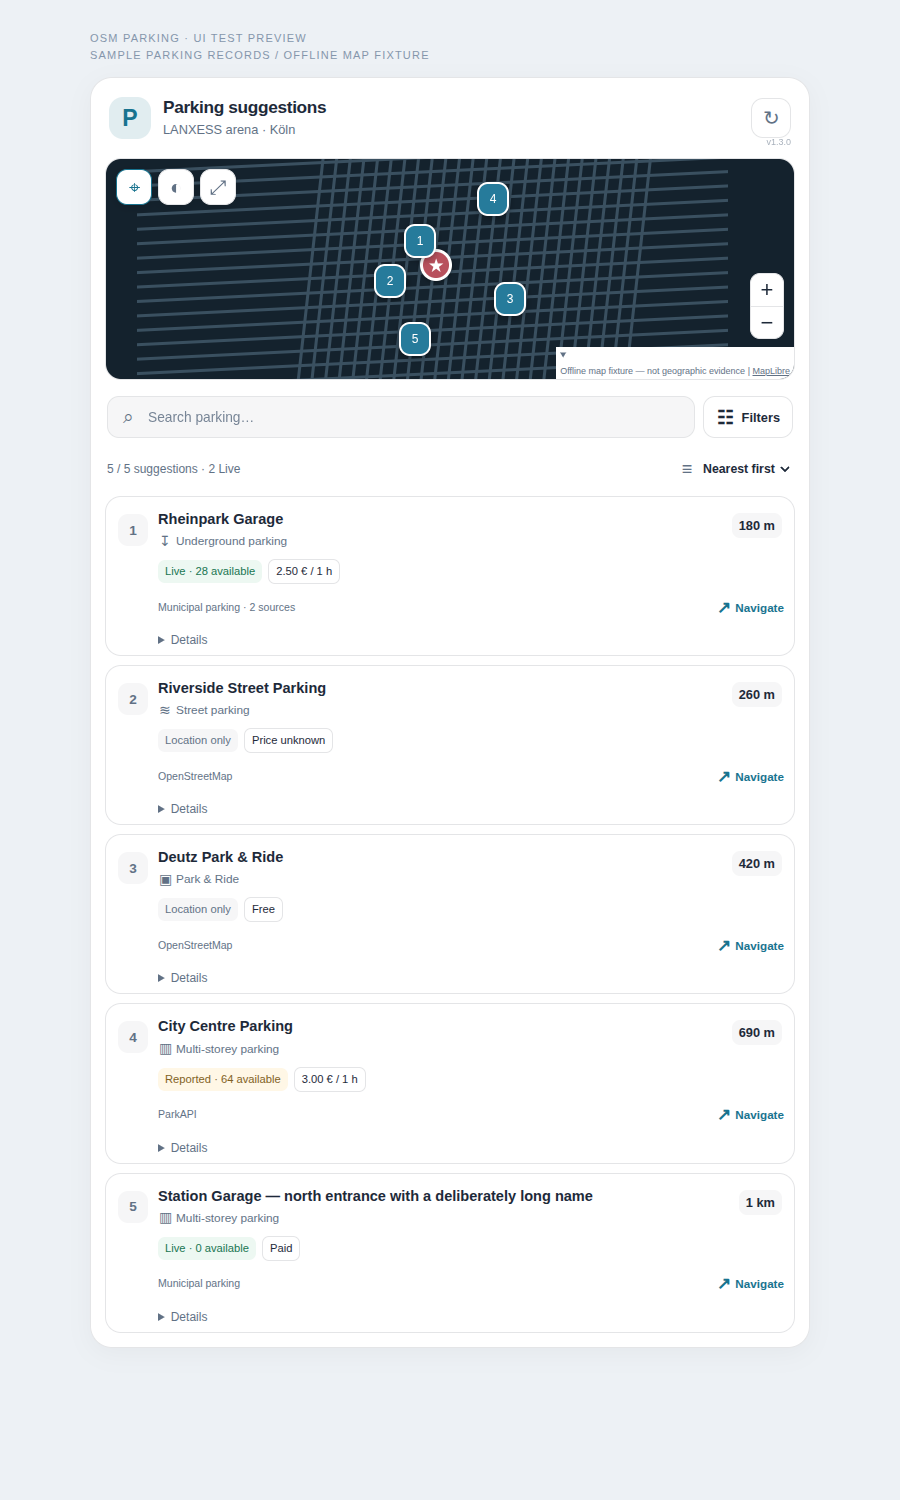
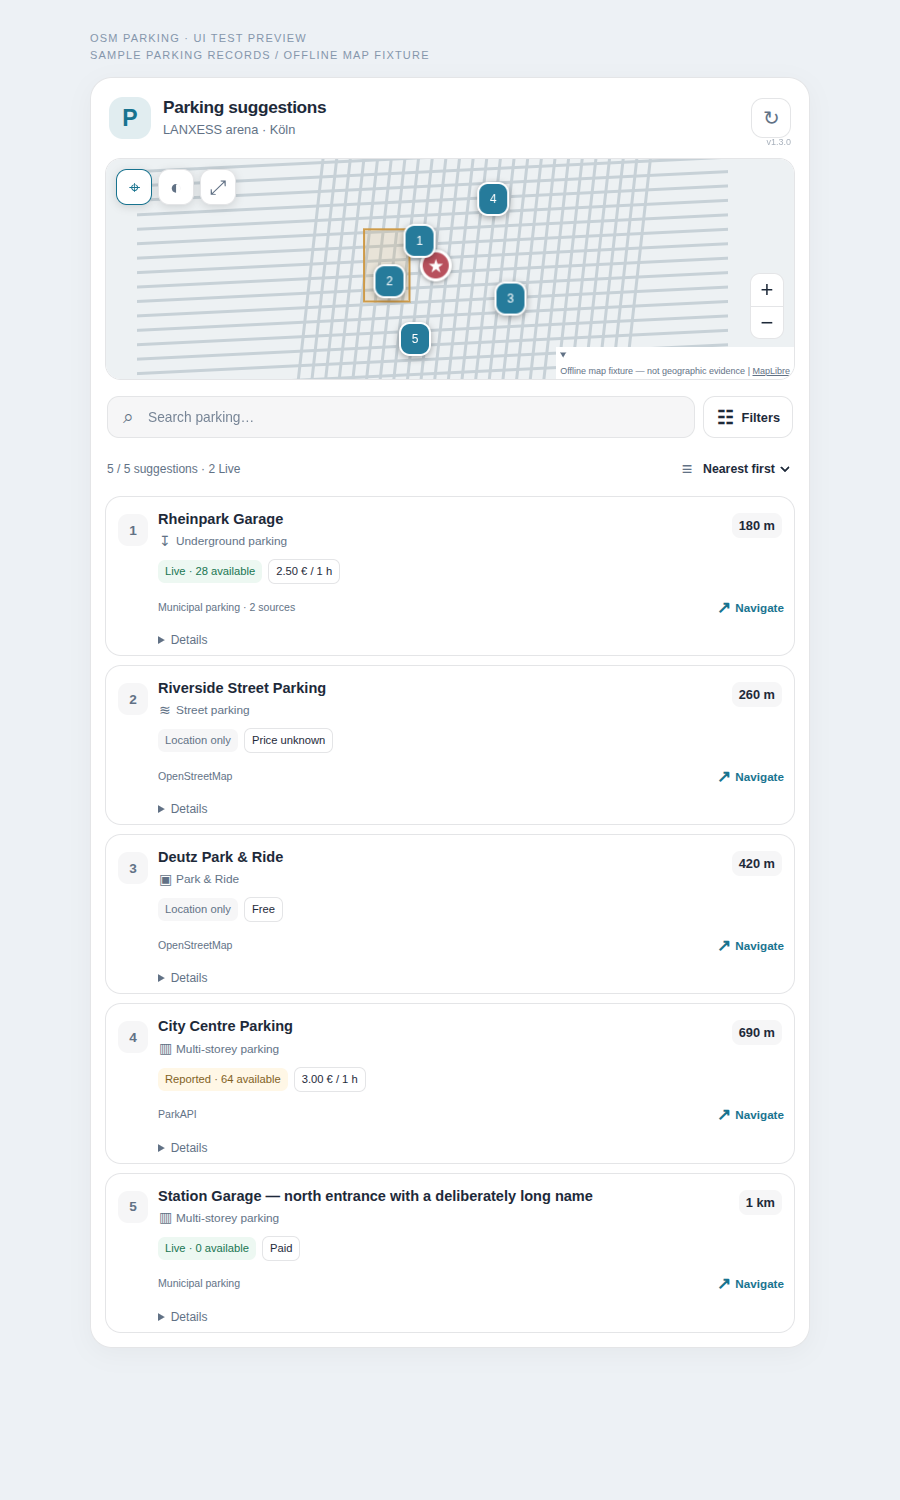
Build verified compact parking explorer v1.3.0 and browser previews

Changed region(s): [[0.0933, 0.092, 0.9022, 0.276]]

diff --git a/custom_components/osm_parking/frontend/osm-parking-map-card.js b/custom_components/osm_parking/frontend/osm-parking-map-card.js
@@ -1994,7 +1994,10 @@ class OsmParkingExplorerCard extends OsmParkingMapCardV070 {
     if(!this._map) return;
     const style=this._styleURL();if(style===this._style) return;
     this._style=style;this._fallbackStyle=false;
-    this._map.setStyle(style); // Camera and HTML markers are intentionally retained.
+    // A style diff can omit style.load while removing our custom zone layer.
+    // Rebuild the stylesheet only, retaining the map, camera and HTML markers;
+    // the existing style.load handler then restores zone sources reliably.
+    this._map.setStyle(style, {diff:false});
     clearTimeout(this._styleTimer);this._styleTimer=setTimeout(()=>this._mapFailure(new Error('Map style timed out')),15000);
   }
   _mapFailure(error) {

diff --git a/tools/card/explorer.js b/tools/card/explorer.js
@@ -342,7 +342,10 @@ class OsmParkingExplorerCard extends OsmParkingMapCardV070 {
     if(!this._map) return;
     const style=this._styleURL();if(style===this._style) return;
     this._style=style;this._fallbackStyle=false;
-    this._map.setStyle(style); // Camera and HTML markers are intentionally retained.
+    // A style diff can omit style.load while removing our custom zone layer.
+    // Rebuild the stylesheet only, retaining the map, camera and HTML markers;
+    // the existing style.load handler then restores zone sources reliably.
+    this._map.setStyle(style, {diff:false});
     clearTimeout(this._styleTimer);this._styleTimer=setTimeout(()=>this._mapFailure(new Error('Map style timed out')),15000);
   }
   _mapFailure(error) {

diff --git a/tests/card/browser_check.py b/tests/card/browser_check.py
@@ -24,7 +24,7 @@ def style(dark=True):
         features.append({'type':'Feature','geometry':{'type':'LineString','coordinates':[[x,50.915],[x+.008,50.960]]},'properties':{}})
         y=50.938+n*.001
         features.append({'type':'Feature','geometry':{'type':'LineString','coordinates':[[6.950,y],[7.015,y+.002]]},'properties':{}})
-    return {'version':8,'name':'Offline map fixture',
+    return {'version':8,'name':'Offline map fixture - '+('dark' if dark else 'light'),
             'sources':{'fixture':{'type':'geojson','attribution':'Offline map fixture — not geographic evidence','data':{'type':'FeatureCollection','features':features}}},
             'layers':[{'id':'background','type':'background','paint':{'background-color':'#14222d' if dark else '#edf1f3'}},
                       {'id':'roads','type':'line','source':'fixture','paint':{'line-color':'#3a5060' if dark else '#c7d1d7','line-width':3}}]}
@@ -135,13 +135,15 @@ with sync_playwright() as p:
         page.locator('.fit').click()
 
         page.evaluate('window.applyTheme(false)')
-        page.wait_for_function("window.card._style.endsWith('/liberty') && window.card._map.isStyleLoaded() && !!window.card._map.getLayer('osm-parking-controlled-zones-fill')")
+        page.wait_for_function("window.card._style.endsWith('/liberty') && window.card._map.getStyle()?.name==='Offline map fixture - light' && window.card._map.isStyleLoaded() && !!window.card._map.getLayer('osm-parking-controlled-zones-fill')")
+        page.evaluate("() => new Promise(resolve => requestAnimationFrame(() => requestAnimationFrame(resolve)))")
         assert page.locator('osm-parking-map-card').get_attribute('data-mode')=='light'
         assert page.locator('.osm-park-marker').count()==5
         page.screenshot(path=str(OUT/'desktop-light.png'),full_page=True)
         report['screenshots'].append('desktop-light.png')
         page.evaluate('window.applyTheme(true)')
-        page.wait_for_function("window.card._style.endsWith('/dark') && window.card._map.isStyleLoaded() && !!window.card._map.getLayer('osm-parking-controlled-zones-fill')")
+        page.wait_for_function("window.card._style.endsWith('/dark') && window.card._map.getStyle()?.name==='Offline map fixture - dark' && window.card._map.isStyleLoaded() && !!window.card._map.getLayer('osm-parking-controlled-zones-fill')")
+        page.evaluate("() => new Promise(resolve => requestAnimationFrame(() => requestAnimationFrame(resolve)))")
         checked('HA theme switch preserves markers and controlled-zone overlays')
         page.locator('.expand').click()
         assert page.locator('.map').evaluate('(e)=>e.getBoundingClientRect().height')>=400
